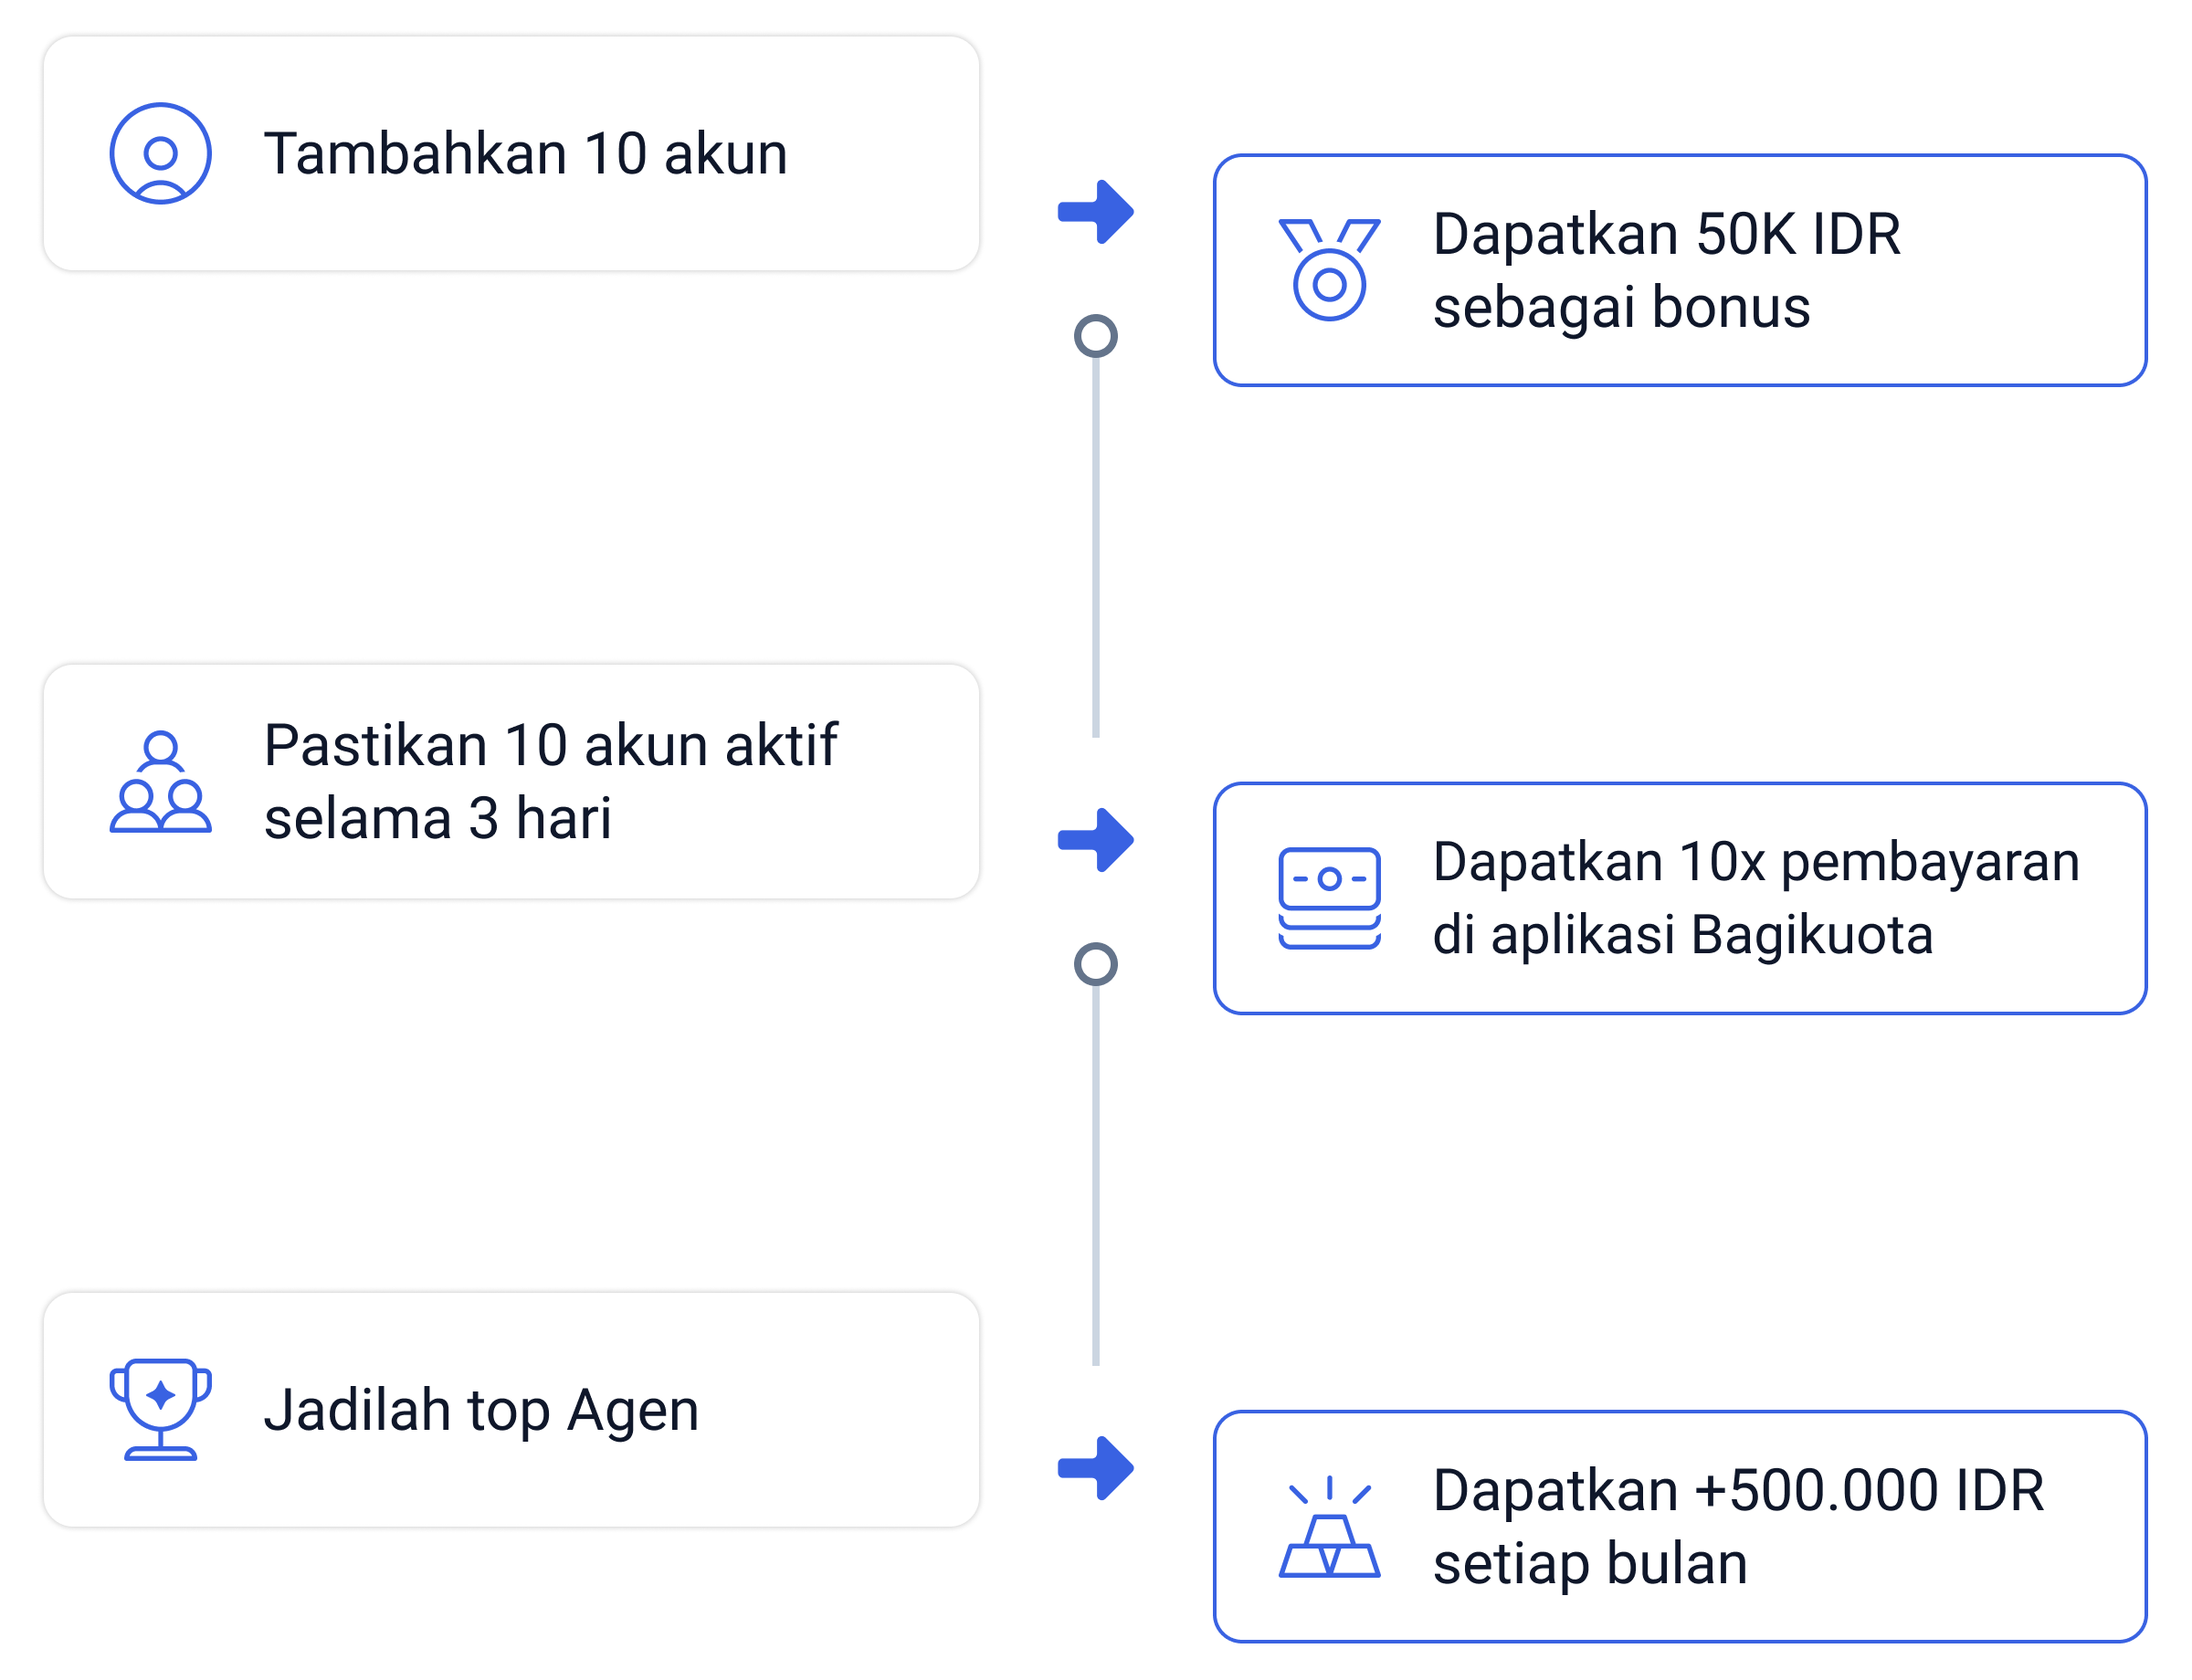
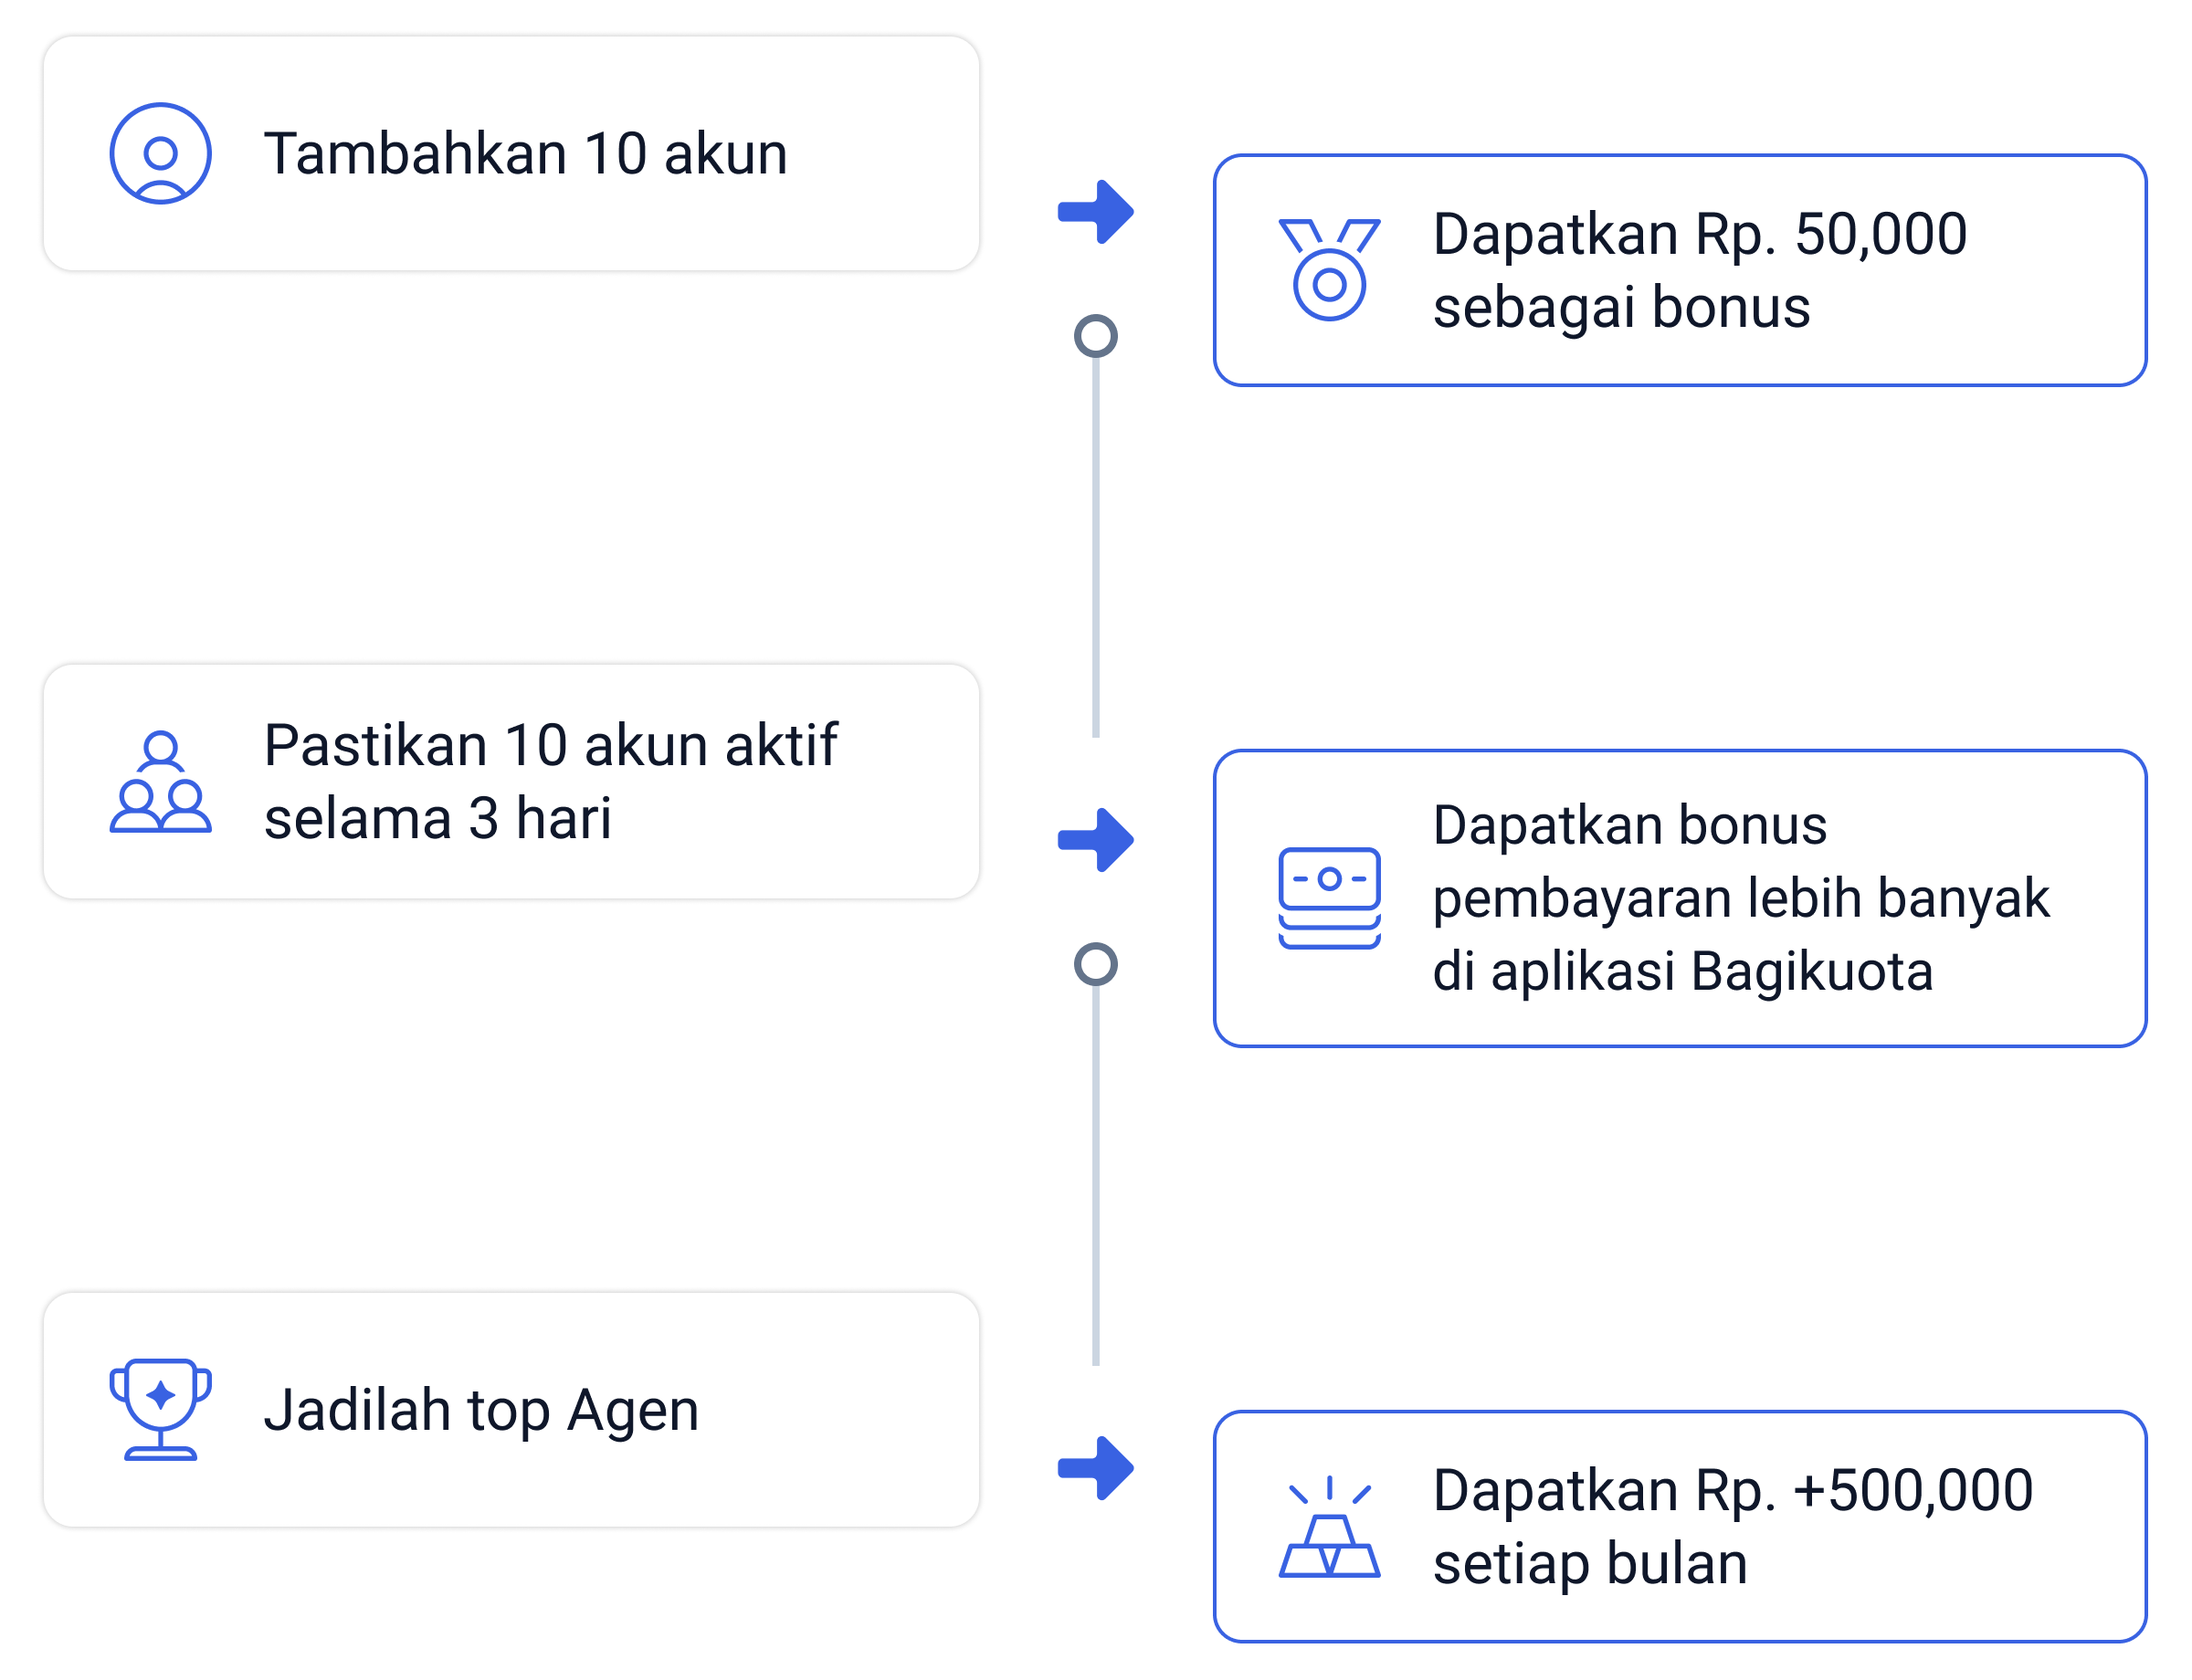
update

Changed region(s): [[0.6562, 0.4647, 0.9688, 0.6196], [0.75, 0.8674, 0.9375, 0.8984], [0.7812, 0.1239, 0.9062, 0.1549]]

diff --git a/agenbagi.html b/agenbagi.html
@@ -34,9 +34,14 @@
       <div class="container">
 
         <!-- Brand -->
-        <a class="navbar-brand" href="agenbagi.html">
+        <a class="navbar-brand" href="index.html">
           <img src="./assets/img/AgenBagi_Logo horizontal.png" class="navbar-brand-img" alt="proxycurl logo">
         </a>
+
+        <!-- Toggler -->
+        <button class="navbar-toggler" type="button" data-toggle="collapse" data-target="#navbarCollapse" aria-controls="navbarCollapse" aria-expanded="false" aria-label="Toggle navigation">
+          <span class="navbar-toggler-icon"></span>
+        </button>
 
         <!-- Collapse -->
         <div class="collapse navbar-collapse" id="navbarCollapse">
@@ -62,14 +67,14 @@
             </li>
 
             <li class="nav-item">
-              <a class="nav-link" id="navbarAccount" href="#!">
-                Download APK
+              <a class="nav-link" id="navbarAccount" target="blank" href="https://www.instagram.com/bagikuota.id">
+                Instagram <i class="neu-arrow"></i>
               </a>
             </li>
 
             <li class="nav-item">
-              <a class="nav-link" id="navbarAccount" target="blank" href="https://www.instagram.com/agenbagi.id/">
-                Instagram <i class="neu-arrow"></i>
+              <a class="btn btn-sm btn-primary lift" id="navbarAccount" href="#!">
+                Download APK
               </a>
             </li>
 
@@ -82,7 +87,7 @@
 
     <!-- WELCOME
     ================================================== -->
-    <section class="pt-6 pt-md-10 py-14 bg-light">
+    <section class="pt-6 pt-md-10 py-14 bg-light border-bottom">
       <div class="container">
         <div class="row align-items-center justify-content-center justify-content-md-between">
 
@@ -105,12 +110,12 @@
               Daftar jadi Agen
             </a>
 
-            <a href="#!" class="btn btn-outline-primary lift mr-md-2 mb-4">
+            <a href="#!" class="btn btn-outline-primary lift btn-block mb-4">
               Gabung grup Telegram
             </a>
 
-            <a href="#!" class="btn btn-outline-primary lift mb-4">
-              Download guide
+            <a href="#!" class="btn btn-outline-primary btn-block lift mb-4">
+              Panduan aplikasi
             </a>
 
           </div>
@@ -126,12 +131,10 @@
         <div class="row align-items-center justify-content-center">
 
           <div class="col-12 text-center">
-            <h2 class="font-weight-bold">
-              Hadiah
+            <h2 class="font-weight-bold mb-8">
+              Keuntungan menjadi Agen
             </h2>
-            <p class="font-size-lg text-gray-700 mb-8">
-              Manfaat menjadi Agen
-            </p>
+
             <img class="img img-fluid rounded" alt="..." src="assets/img/illustrations/Agenbagi-timeline.png">
           </div>
 
